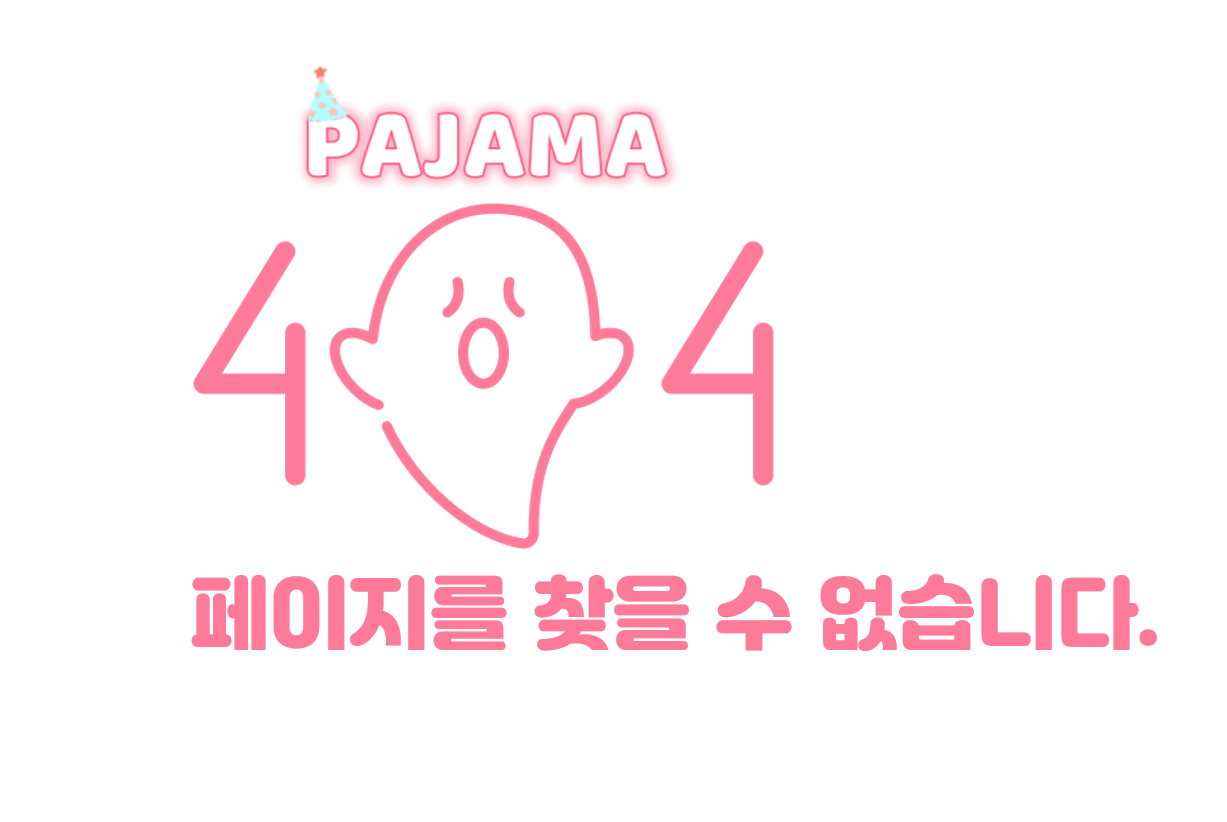
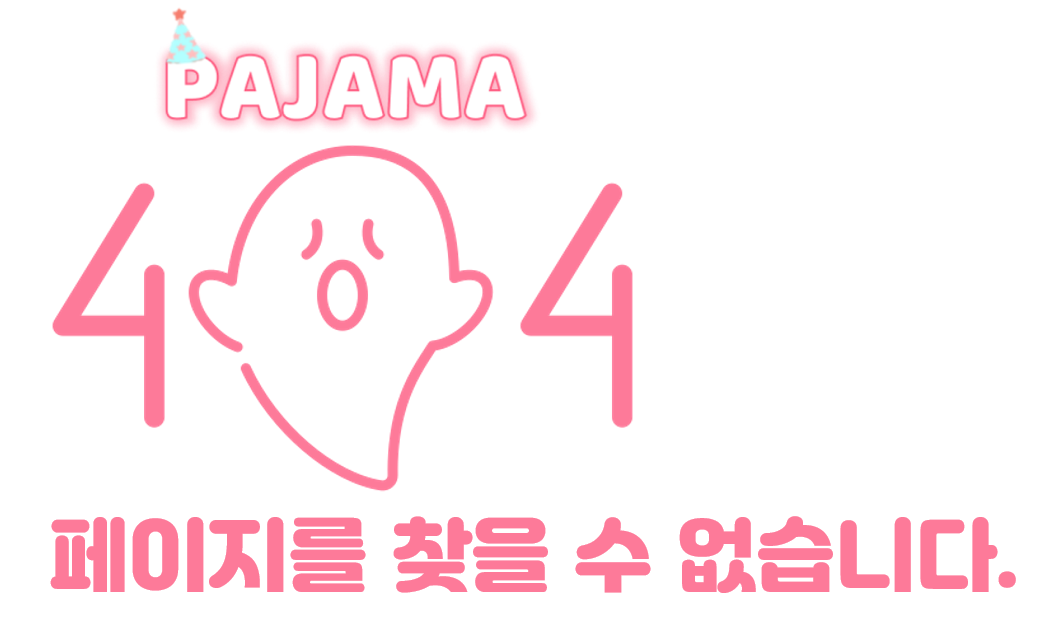
[FIX]NotFoundPage수정

Changed region(s): [[0.0307, 0.0, 0.9529, 0.7917], [0.0307, 0.8221, 0.5226, 0.9744], [0.5533, 0.8221, 0.9837, 0.9744]]

diff --git a/frontend/src/pages/NotFound.js b/frontend/src/pages/NotFound.js
@@ -1,10 +1,59 @@
 import React from "react";
+import styled from "styled-components";
+
+const StyledBtn = styled.button`
+  text-align: center;
+  width: 200px;
+  height: 60px;
+  border: none;
+  border-radius: 15px;
+  font-size: 25px;
+  font-weight: bold;
+  font-family: "star";
+  outline: none;
+  cursor: pointer;
+  background: #fd7a99;
+  margin: 2rem;
+  color: black;
+  &:hover {
+    background: #ffa4bd;
+  }
+
+  @media only screen and (max-width: 1165px) {
+    font-size: 20px;
+    width: 150px;
+    height: 40px;
+  }
+
+  @media only screen and (max-width: 940px) {
+    font-size: 18px;
+    width: 150px;
+    height: 40px;
+  }
+`;
+
+const Div = styled.div`
+  text-align: left;
+  margin-top: 50px;
+  margin-left: 100px;
+`;
 
 function NotFound() {
   return (
-    <div>
-      <img src="/errorpageimg.png" />
-    </div>
+    <Div>
+      <div>
+        <img src="/errorpageimg.png" />
+      </div>
+      <div>
+        <StyledBtn
+          onClick={() => {
+            document.location.href = "/";
+          }}
+        >
+          홈으로 이동
+        </StyledBtn>
+      </div>
+    </Div>
   );
 }
 

diff --git a/frontend/src/pages/InvitePage.js b/frontend/src/pages/InvitePage.js
@@ -77,7 +77,7 @@ const InvitePage = () => {
                 style={{ width: "60%", height: "60%", maxWidth: "1024px" }}
               ></img>
             </div>
-            <a href={`/room/${roomIdx}`} className="clicklink">
+            <a href={`/room/${validURL}`} className="clicklink">
               JOIN PARTY
             </a>
           </>
@@ -99,7 +99,7 @@ const InvitePage = () => {
                 style={{ width: "60%", height: "60%", maxWidth: "1024px" }}
               ></img>
             </div>
-            <a href={`/login/${roomIdx}`} className="clicklink">
+            <a href={`/login/${validURL}`} className="clicklink">
               로그인이 필요합니다!
             </a>
           </>

diff --git a/frontend/src/components/openvidu/OpenVideo.js b/frontend/src/components/openvidu/OpenVideo.js
@@ -122,7 +122,7 @@ class OpenVideo extends Component {
         console.log(this.state.myUserName);
       })
       .catch(() => {
-        alert("회원정보 불러오기 실패");
+        document.location.href = "/NotFound";
       });
 
     // 현재 방정보 불로오기
@@ -151,7 +151,7 @@ class OpenVideo extends Component {
       })
       .then((res) => {})
       .catch(() => {
-        alert("방정보 불러오기 실패");
+        document.location.href = "/NotFound";
       });
 
     this.joinSession = this.joinSession.bind(this);

diff --git a/frontend/src/pages/RoomPage.js b/frontend/src/pages/RoomPage.js
@@ -57,7 +57,7 @@ const RoomPage = () => {
       console.log(res.data.result.partyDate);
     })
     .catch(() => {
-      alert("방정보 불러오기 실패??");
+      document.location.href = "/NotFound";
     });
   var dday = new Date(partyDate).getTime();
   const interval = setInterval(function () {
